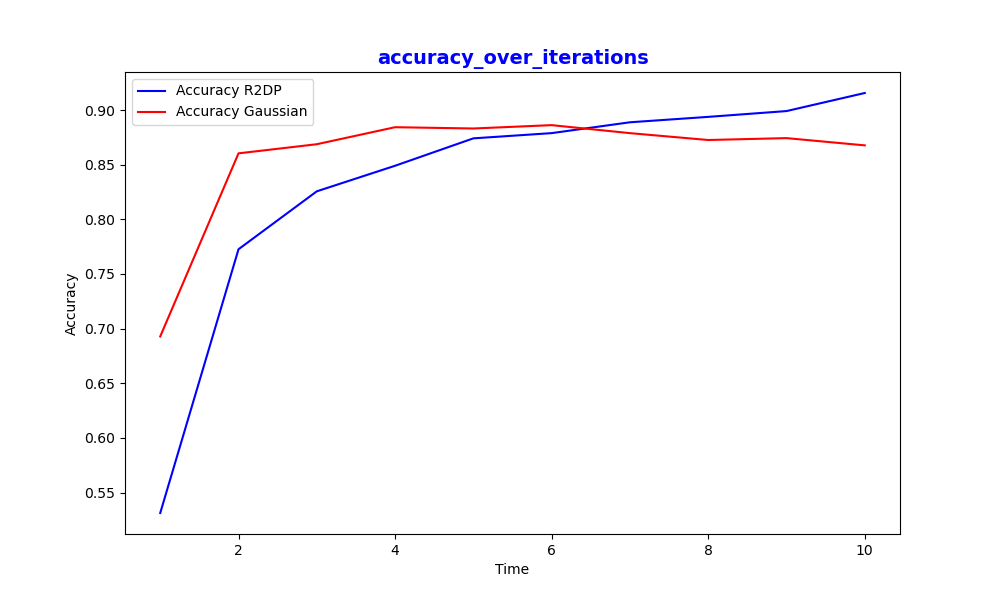
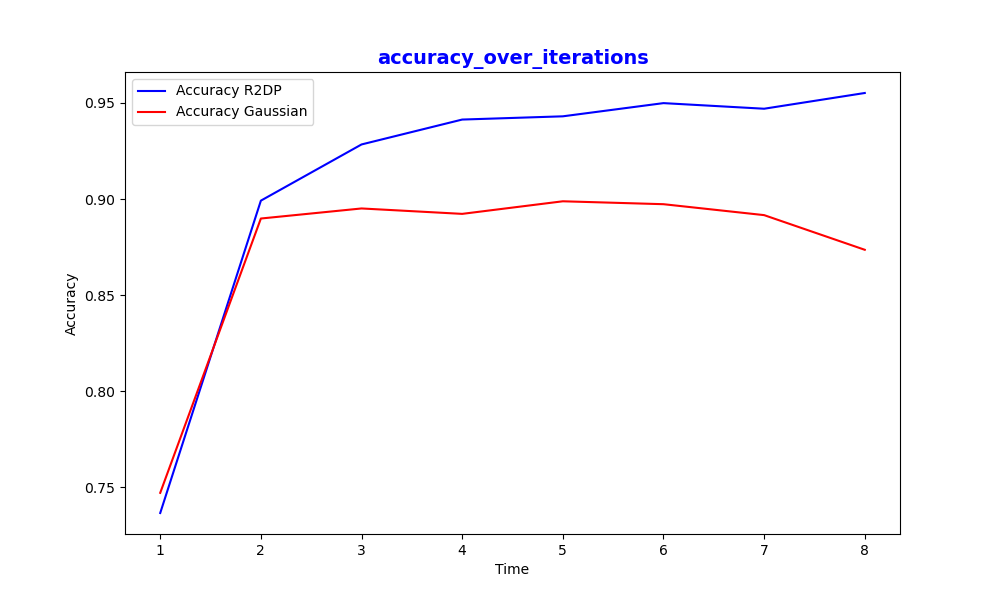
update

diff --git a/examples/my_example/result/plotter.py b/examples/my_example/result/plotter.py
@@ -1,0 +1,87 @@
+
+
+import pickle 
+import matplotlib.pyplot as plt
+import os 
+
+
+
+
+
+def plot_accuracy_over_iterations(data_R2DP, data_Gaussian, title="Accuracy over Epoch"):
+
+    acc_r2dps=data_R2DP['acc']
+    acc_gaussian=data_Gaussian['acc']
+    
+    key_r2dp=list(acc_r2dps.keys())
+    key_gaussian=list(acc_gaussian.keys())
+
+    r2dp=list(acc_r2dps.values())
+    gaussian=list(acc_gaussian.values())
+
+    key_r2dp=key_r2dp[0:len(gaussian)]
+    r2dp = r2dp[0:len(gaussian)]
+    print(len(gaussian))
+
+
+    plt.figure(figsize=(10, 6))
+    plt.plot(key_r2dp, r2dp, '-b', label='Accuracy R2DP')
+    plt.plot(key_gaussian, gaussian, '-r', label='Accuracy Gaussian')
+
+    plt.xlabel("Time")
+    plt.ylabel("Accuracy")
+    plt.legend()
+
+    file_name=f"{title}.png"
+    plt.title(title, fontsize=14, color='blue', fontweight='bold')
+    plt.savefig(file_name)
+
+    plt.show()
+    plt.close()
+
+
+
+
+def plot_epsilon_over_iterations(data_R2DP, data_Gaussian, title="epsilon_over_iterations"):
+
+    acc_r2dps=data_R2DP['epsilon']
+    acc_gaussian=data_Gaussian['epsilon']
+    
+    key=list(acc_r2dps.keys())
+    r2dp=list(acc_r2dps.values())
+    gaussian=list(acc_gaussian.values())
+    print(len(gaussian))
+    plt.figure(figsize=(10, 6))
+    plt.plot(key, r2dp, '-b', label='Epsilon R2DP')
+    plt.plot(key, gaussian, '-r', label='Epsilon Gaussian')
+
+    plt.xlabel("Time")
+    plt.ylabel("Epsilon")
+    plt.legend()
+
+    file_name=f"{title}.png"
+    plt.title(title, fontsize=14, color='blue', fontweight='bold')
+    plt.savefig(file_name)
+
+    plt.show()
+    plt.close()
+
+
+
+if __name__=="__main__":
+
+
+    file_path=os.path.join(os.path.dirname(__file__), 'data_r2dp_dynamic0.pkl')
+
+    with open(file_path, 'rb') as file:
+        data_r2dp = pickle.load(file)
+
+    file_path=os.path.join(os.path.dirname(__file__), 'data_gaussian_0.7.pkl')
+    with open(file_path, 'rb') as file:
+        data_gaussian = pickle.load(file)
+
+    title="Accuracy over Epoch for Epsilon Gaussian=0.7"
+
+    plot_accuracy_over_iterations(data_R2DP=data_r2dp, data_Gaussian=data_gaussian, title=title)
+
+    # plot_epsilon_over_iterations(data_R2DP=data_r2dp, data_Gaussian=data_gaussian)

diff --git a/examples/my_example/mnist_dynamic_noise_rdp.py b/examples/my_example/mnist_dynamic_noise_rdp.py
@@ -63,6 +63,27 @@ class SampleConvNet(nn.Module):
 all_results={}
 eps_acc_results={}
 
+
+def get_log_epsilon(epsilon, gamma):
+    """
+    Calculate the logarithmic expression given gamma and x.
+
+    Parameters:
+        gamma (float): The parameter gamma in the equation.
+        x (float): The exponent variable in the equation.
+
+    Returns:
+        float: The result of the logarithmic expression.
+    """
+    # Calculate the inner expression
+    inner_expression = 1 + gamma * (np.exp(epsilon) - 1)
+
+    # Calculate the logarithm of the inner expression
+    result = np.log(inner_expression)
+
+    return result
+
+
 def train(args, model, device, train_loader, optimizer, privacy_engine, epoch):
     model.train()
     criterion = nn.CrossEntropyLoss()
@@ -87,6 +108,8 @@ def train(args, model, device, train_loader, optimizer, privacy_engine, epoch):
 
     if not args.disable_dp:
         epsilon = privacy_engine.accountant.get_epsilon(delta=args.delta)
+        epsilon = get_log_epsilon(epsilon=epsilon, gamma=args.batch_size/60000)
+
         if epoch%2==0:
             print(
                 f"Train Epoch: {epoch} \t"
@@ -178,7 +201,7 @@ def main():
         "-n",
         "--epochs",
         type=int,
-        default=1000,
+        default=210,
         metavar="N",
         help="number of epochs to train",
     )
@@ -200,7 +223,7 @@ def main():
     parser.add_argument(
         "--sigma",
         type=float,
-        default=1.2,
+        default=noise,
         metavar="S",
         help="Noise multiplier",
     )
@@ -253,7 +276,7 @@ def main():
     parser.add_argument(
         "--budget",
         type=float,
-        default=1.5,
+        default=0,
         help="The maximum epsilon to be spent",
     )
     args = parser.parse_args()
@@ -319,7 +342,7 @@ def main():
         run_results.append(test(model, device, test_loader))
         
     average_data= calculate_averages(all_results, args.n_runs)
-    file_name=f'data_r2dp_{args.budget}.pkl'
+    file_name=f'data_r2dp_dynamic{args.budget}.pkl'
     with open(file_name, 'wb') as file:
         pickle.dump(average_data, file)
 

diff --git a/examples/my_example/dynamic_noise_generator.py b/examples/my_example/dynamic_noise_generator.py
@@ -37,5 +37,29 @@ def generate_dynamic_b(params, distributions, noise_size=1):
     
     return b
 
+
+def calculate_log_epsilon(epsilon, gamma):
+    """
+    Calculate the logarithmic expression given gamma and x.
+
+    Parameters:
+        gamma (float): The parameter gamma in the equation.
+        x (float): The exponent variable in the equation.
+
+    Returns:
+        float: The result of the logarithmic expression.
+    """
+    # Calculate the inner expression
+    inner_expression = 1 + gamma * (np.exp(epsilon) - 1)
+
+    # Calculate the logarithm of the inner expression
+    result = np.log(inner_expression)
+
+    return result
+
+
 # if __name__=="__main__":
-#     generate_dynamic_noise('optimized_usefulness/lmo_eps3.json')
+#     # generate_dynamic_noise('optimized_usefulness/lmo_eps3.json')
+
+#     epsilon = calculate_log_epsilon(0.24, 0.00426666666)
+#     print(epsilon)
